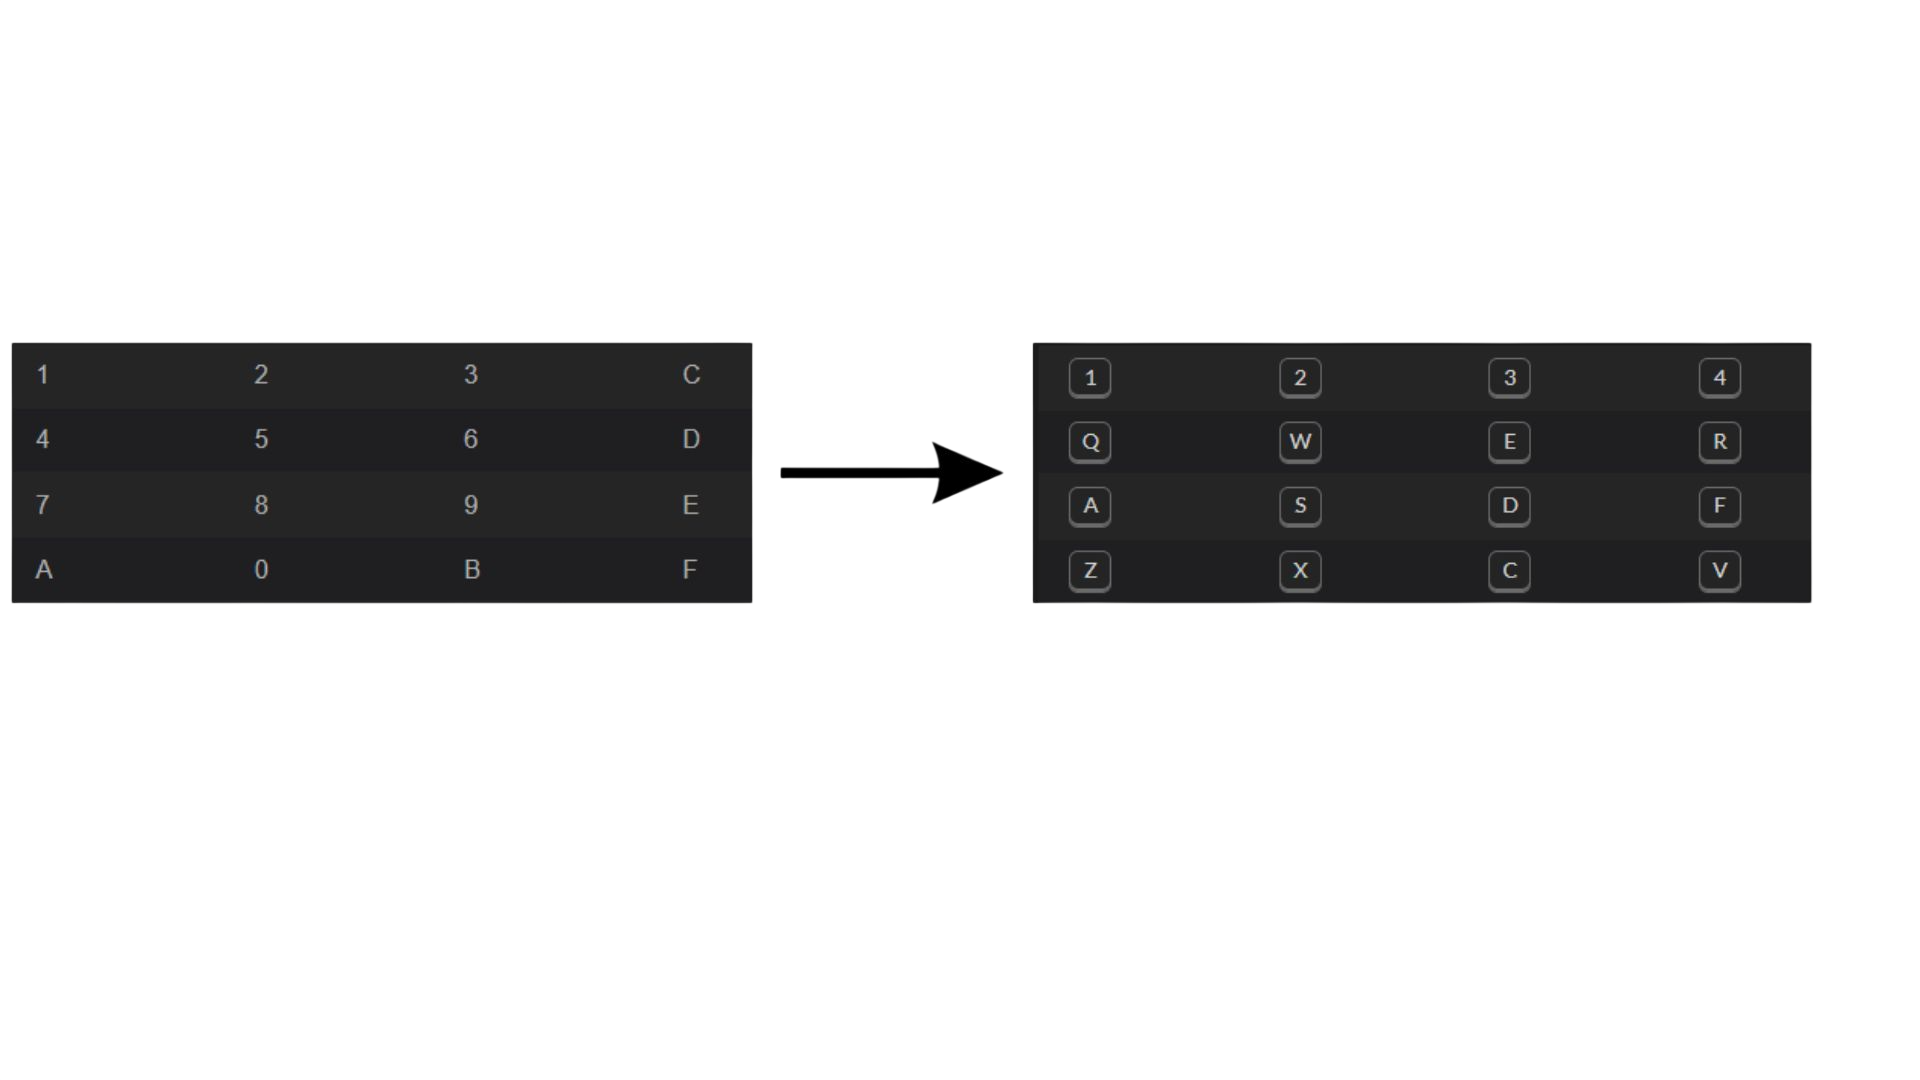
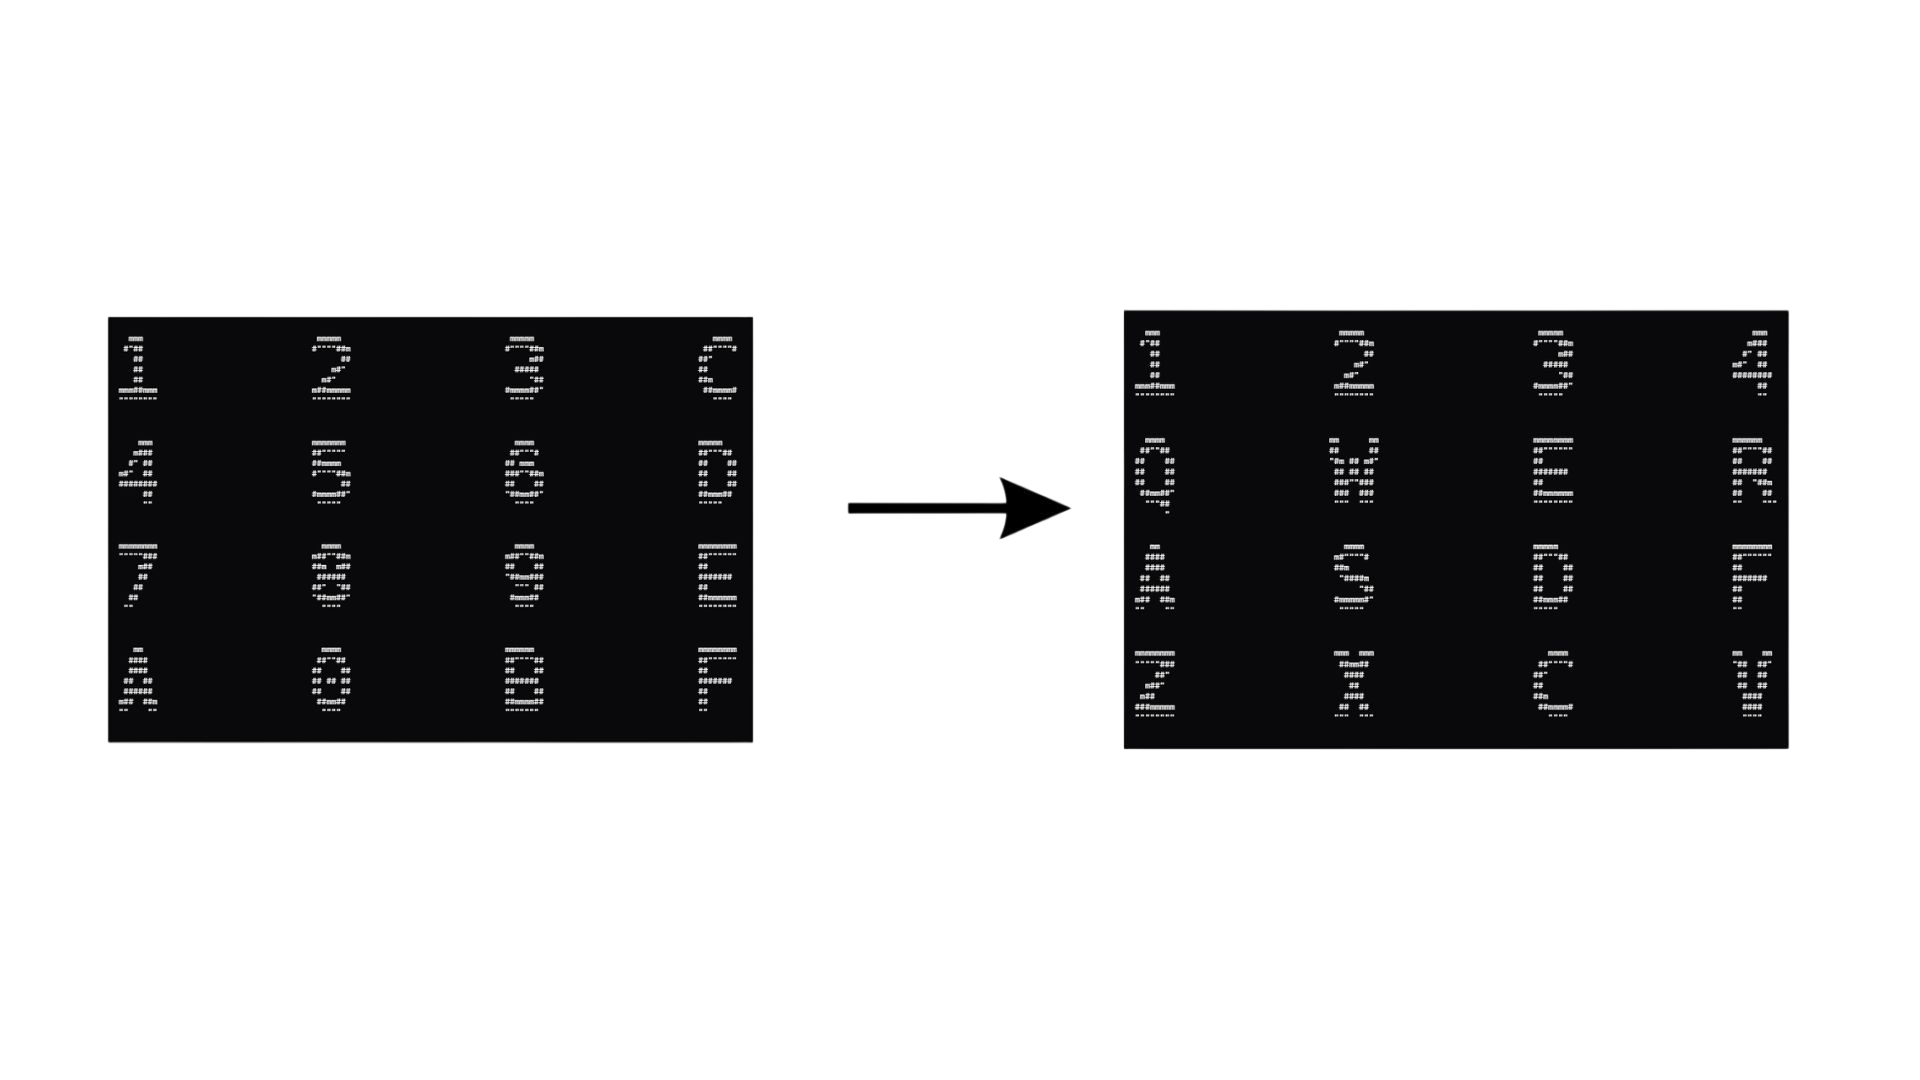
Updated README.md

Changed region(s): [[0.0, 0.275, 0.9688, 0.7028]]

diff --git a/README.md b/README.md
@@ -19,21 +19,27 @@ A simple CHIP-8 emulator written in **C++** using the **SFML (Simple and Fast Mu
 
 ## Screenshots
 
-<img src="screenshots/1.png" alt="Menu" width="400">
+<p align="center">
+  <img src="screenshots/1.png" width="48%" alt="Menu"/>
+  <img src="screenshots/2.png" width="48%" alt="Octojam 10 title"/>
+</p>
 
-<img src="screenshots/2.png" alt="Octojam 10 title" width="400">
-
-<img src="screenshots/3.png" alt="Octojam 7 title" width="400">
-
-<img src="screenshots/4.png" alt="Octojam 10 title" width="400">
-
+<p align="center">
+  <img src="screenshots/3.png" width="48%" alt="Octojam 7 title"/>
+  <img src="screenshots/4.png" width="48%" alt="Octojam 10 title"/>
+</p>
 ## Requirements
 
 - **Compiler:** A C++ compiler supporting **C++17** or higher (e.g., GCC 9+, Clang 10+, or MSVC 2019+).
 - **Build System:** [CMake](https://cmake.org/) (version 3.10 or higher recommended).
 - **Graphics Library:** [SFML 3.1.0](https://github.com/sfml/sfml) or higher installed on your system.
-- **Dear ImGui:** [Dear ImGui 1.91.1](https://github.com/ocornut/imgui), included in this repository.
-- **ImGui SFML:** [ImGui SFML 3.0](https://github.com/SFML/imgui-sfml), also included in this repository.
+
+### Bundled Dependencies
+
+The following libraries are already included in this repository and do not require separate installation:
+
+- [**Dear ImGui:** 1.91.1](https://github.com/ocornut/imgui)
+- [**ImGui SFML:** 3.0](https://github.com/SFML/imgui-sfml)
 
 ## Building and Running
 
@@ -98,7 +104,7 @@ Chip-8-Emulator/
 
 ## Controls
 
-![Controls](screenshot/control.png)
+![Controls](screenshots/control.png)
 
 ## Supported Instructions
 